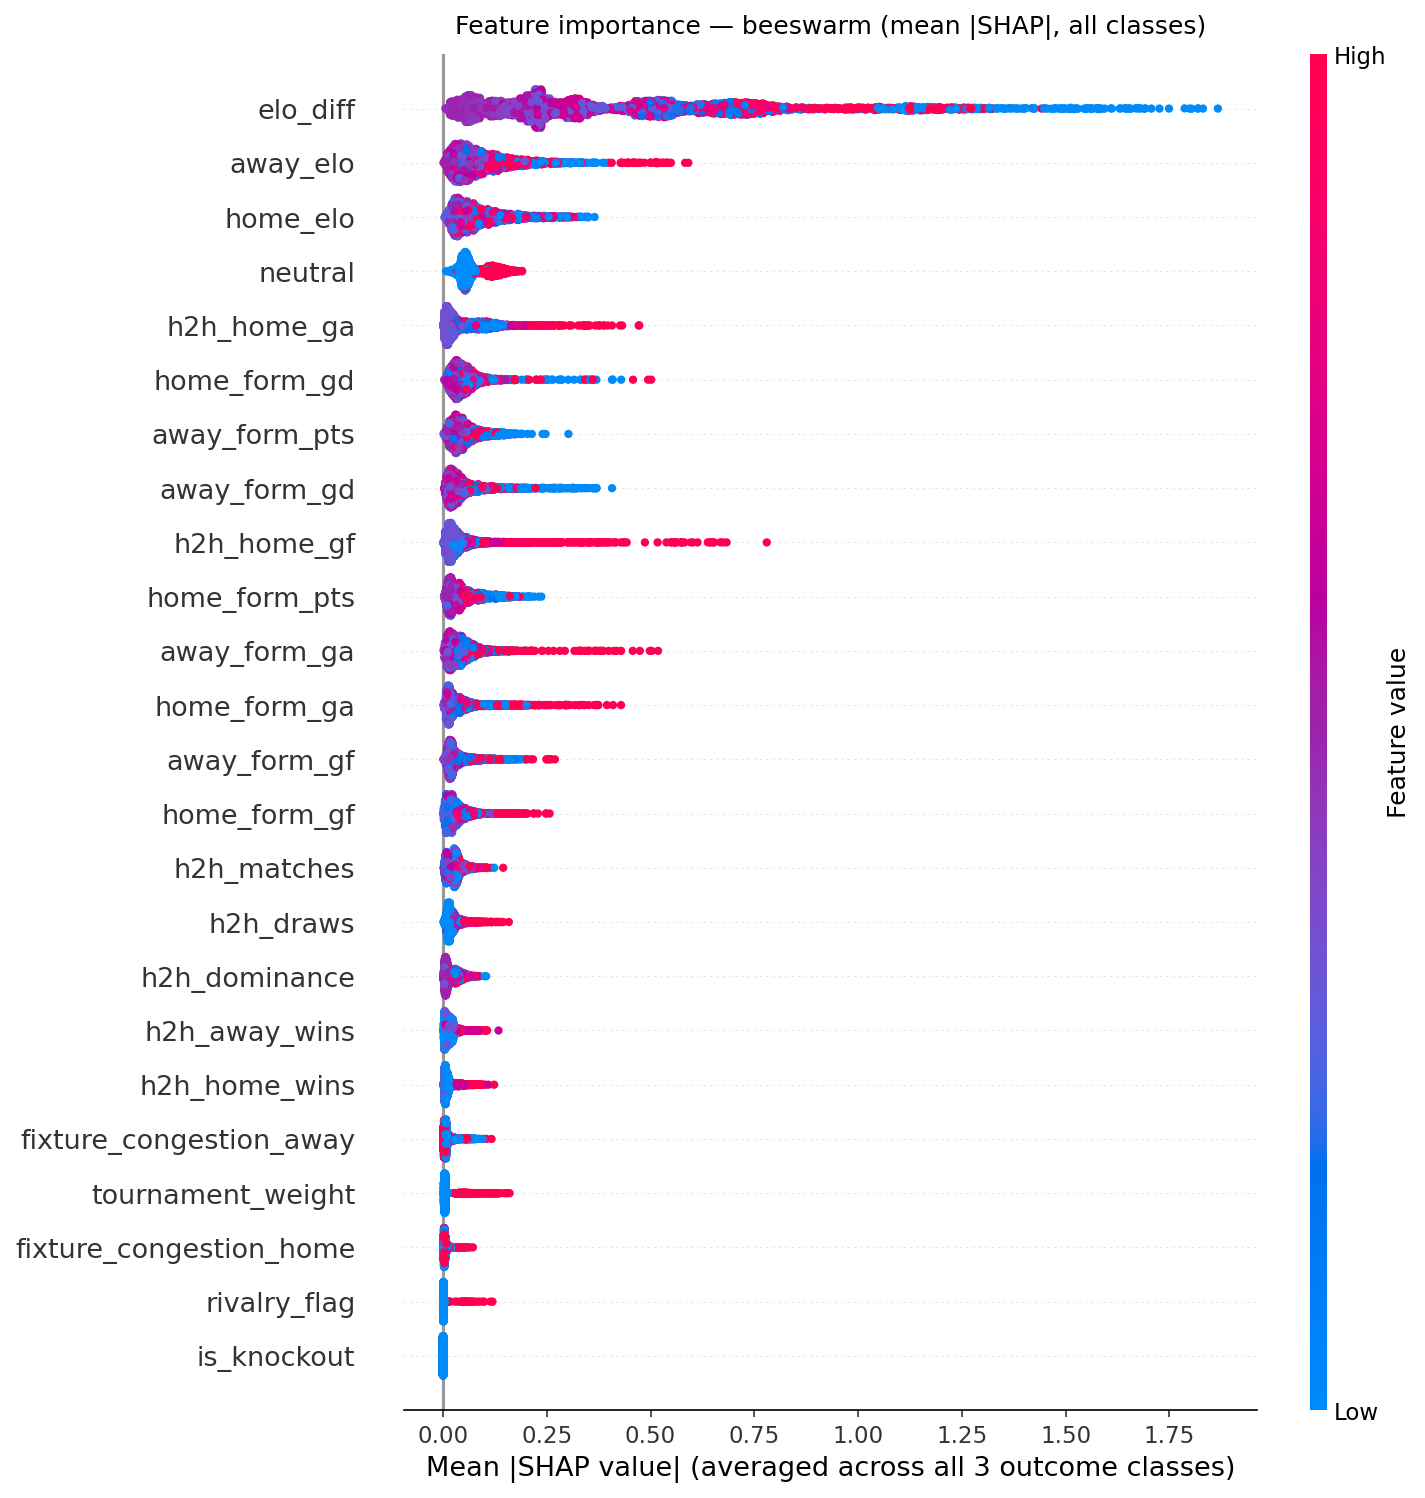
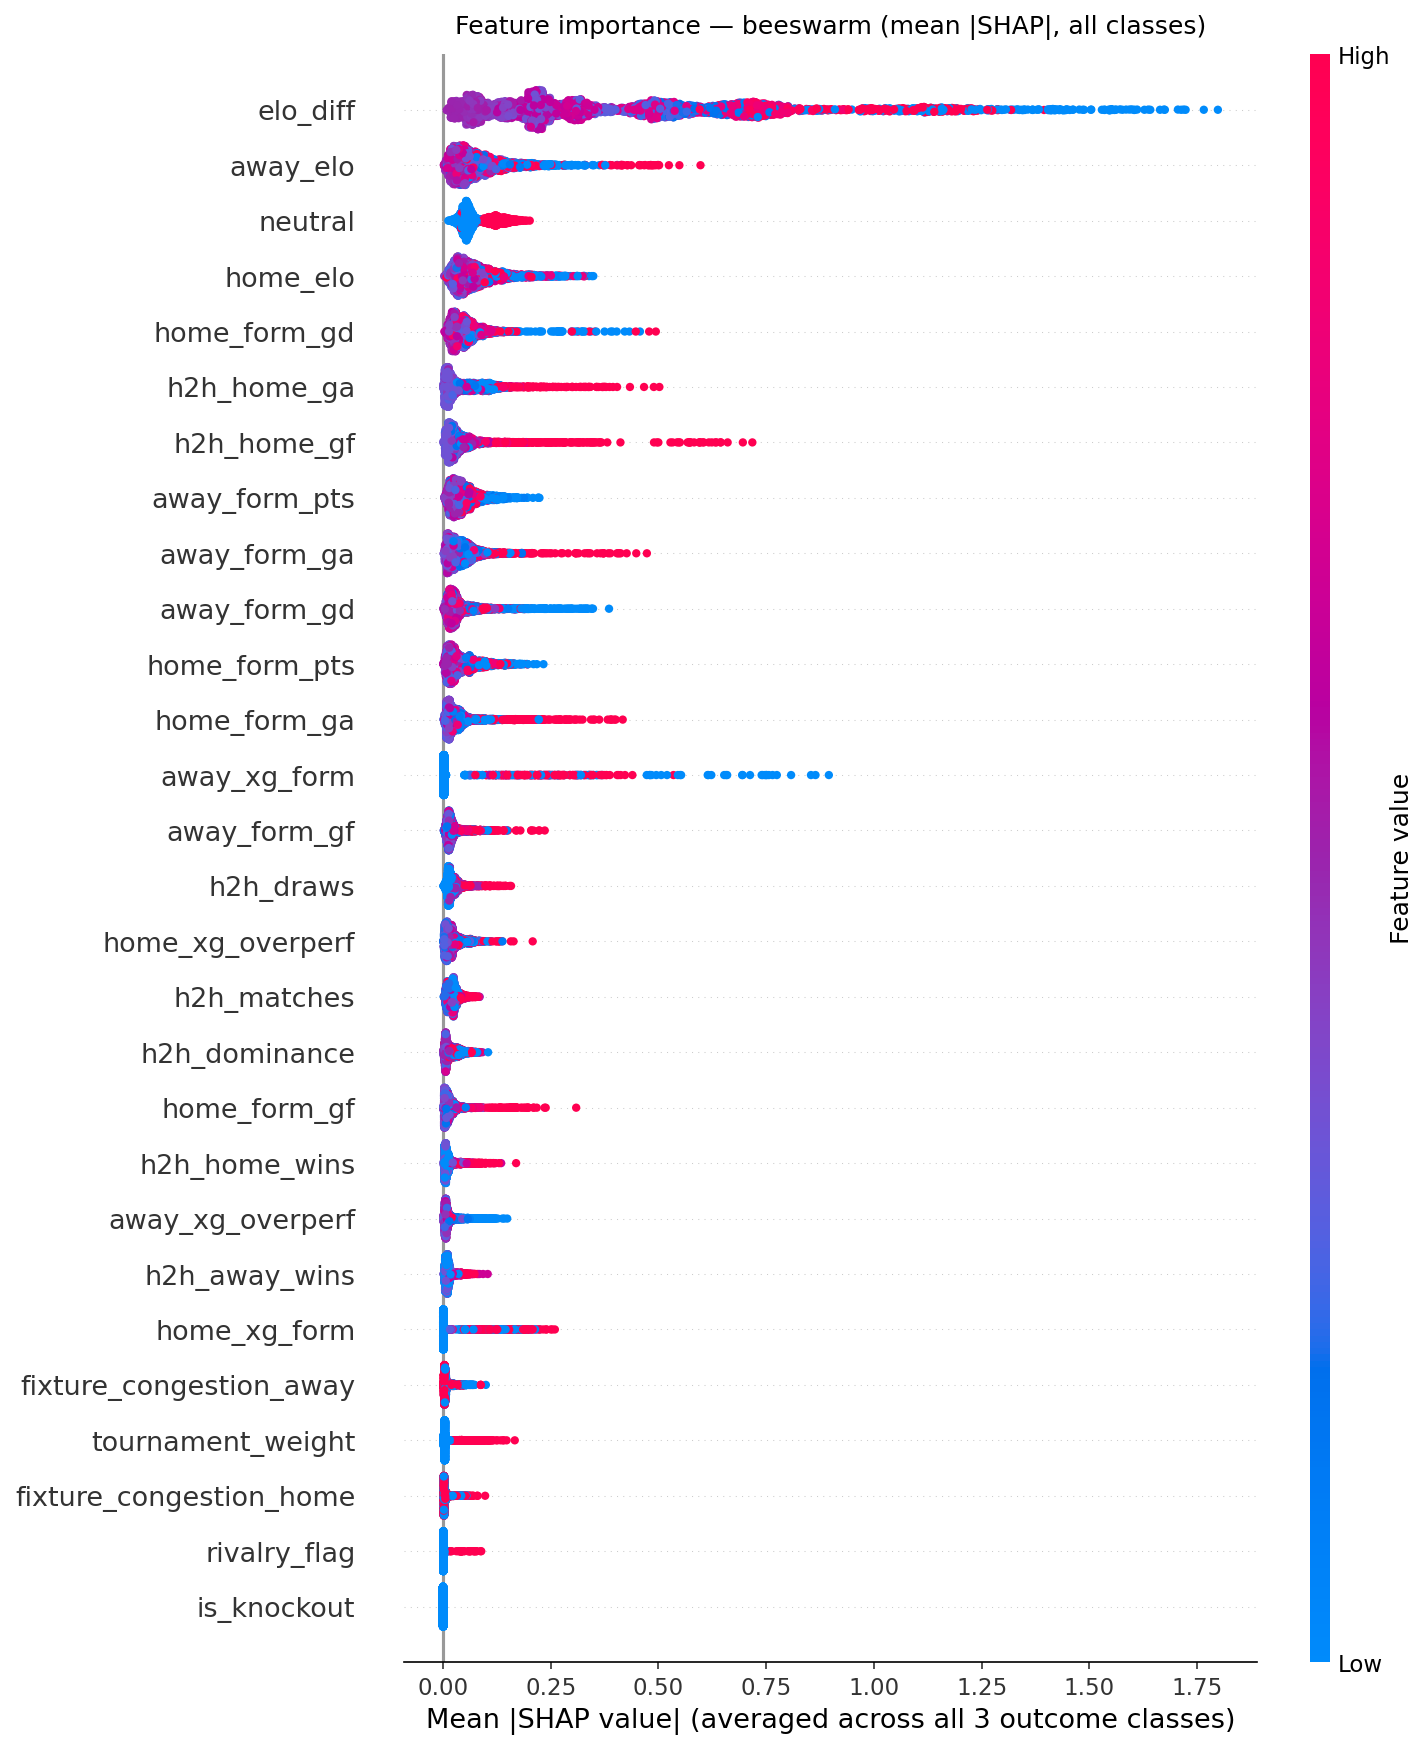
feat: StatsBomb xG integration complete, 28 features, Layer 1 done

diff --git a/src/features/statsbomb_xg.py b/src/features/statsbomb_xg.py
@@ -1,0 +1,244 @@
+"""
+Replace neutral xG fills with real StatsBomb data.
+
+Pipeline
+--------
+1. Fetch shot events from 6 international tournaments (314 matches).
+2. Aggregate shot_statsbomb_xg per team per match → (date, home_team, away_team, home_xg, away_xg).
+3. Normalise StatsBomb team names to match our dataset.
+4. Merge onto matches_with_features.csv (exact + swapped-home/away fallback).
+5. Recompute home/away xG form and xG over-performance as rolling 5-game averages.
+6. Save back to matches_with_features.csv.
+"""
+import sys
+from collections import defaultdict, deque
+from concurrent.futures import ThreadPoolExecutor, as_completed
+
+import pandas as pd
+from statsbombpy import sb
+
+DATA_PATH = "data/processed/matches_with_features.csv"
+XG_WINDOW = 5
+XG_NEUTRAL = 1.0   # fill value when no history yet (matches original behaviour)
+
+# ── Competition / season pairs to pull ────────────────────────────────────
+COMPETITIONS = [
+    (43,    3, "FIFA World Cup 2018"),
+    (43,  106, "FIFA World Cup 2022"),
+    (55,   43, "UEFA Euro 2020"),
+    (55,  282, "UEFA Euro 2024"),
+    (223, 282, "Copa America 2024"),
+    (1267, 107, "AFCON 2023"),
+]
+
+# ── StatsBomb → our dataset name map ──────────────────────────────────────
+NAME_MAP: dict[str, str] = {
+    "Cape Verde Islands": "Cape Verde",
+    "Congo DR":           "Dr Congo",
+    "Côte d'Ivoire":      "Ivory Coast",
+}
+
+
+def _norm(name: str) -> str:
+    return NAME_MAP.get(name, name)
+
+
+# ── Step 1 + 2: fetch and aggregate xG per match ──────────────────────────
+
+def _xg_for_match(match_id: int, home_team: str, away_team: str) -> dict:
+    """Return {match_id, home_xg, away_xg} for one match."""
+    events = sb.events(match_id=match_id)
+    shots = events[events["type"] == "Shot"]
+    home_xg = float(shots.loc[shots["team"] == home_team, "shot_statsbomb_xg"].sum())
+    away_xg = float(shots.loc[shots["team"] == away_team, "shot_statsbomb_xg"].sum())
+    return {"match_id": match_id, "home_xg": home_xg, "away_xg": away_xg}
+
+
+def fetch_statsbomb_xg(max_workers: int = 6) -> pd.DataFrame:
+    """
+    Pull all matches for the 6 competitions, fetch shot events in parallel,
+    and return a DataFrame with columns:
+        date, home_team, away_team, home_xg, away_xg, competition
+    """
+    # --- collect all match metadata first ---
+    all_matches: list[dict] = []
+    for cid, sid, label in COMPETITIONS:
+        matches = sb.matches(competition_id=cid, season_id=sid)
+        for _, row in matches.iterrows():
+            all_matches.append({
+                "match_id":  int(row["match_id"]),
+                "date":      str(row["match_date"]),
+                "home_team": _norm(str(row["home_team"])),
+                "away_team": _norm(str(row["away_team"])),
+                # keep original SB names for the shot lookup (SB uses those internally)
+                "_sb_home":  str(row["home_team"]),
+                "_sb_away":  str(row["away_team"]),
+                "competition": label,
+            })
+
+    total = len(all_matches)
+    print(f"  Fetching events for {total} matches across {len(COMPETITIONS)} competitions …")
+
+    # --- fetch events in parallel ---
+    xg_lookup: dict[int, dict] = {}
+
+    def _fetch(m: dict) -> dict:
+        result = _xg_for_match(m["match_id"], m["_sb_home"], m["_sb_away"])
+        return {**m, **result}
+
+    done = 0
+    with ThreadPoolExecutor(max_workers=max_workers) as pool:
+        futures = {pool.submit(_fetch, m): m for m in all_matches}
+        for future in as_completed(futures):
+            done += 1
+            if done % 20 == 0 or done == total:
+                print(f"    {done}/{total} matches fetched …", flush=True)
+            row = future.result()
+            xg_lookup[row["match_id"]] = row
+
+    rows = list(xg_lookup.values())
+    df = pd.DataFrame(rows)
+    df["date"] = pd.to_datetime(df["date"])
+    df = df[["date", "home_team", "away_team", "home_xg", "away_xg", "competition"]]
+    df = df.sort_values("date").reset_index(drop=True)
+    return df
+
+
+# ── Step 3: merge onto main dataset ───────────────────────────────────────
+
+def merge_xg(main: pd.DataFrame, xg: pd.DataFrame) -> tuple[pd.DataFrame, int, int]:
+    """
+    Join real xG onto main on (date, home_team, away_team).
+    Falls back to swapped home/away (neutral-venue artefact).
+    Returns (patched_df, n_direct_hits, n_swap_hits).
+    """
+    main = main.copy()
+    main["date"] = pd.to_datetime(main["date"])
+
+    # Build fast lookup: (date, home, away) → (home_xg, away_xg)
+    direct: dict[tuple, tuple] = {}
+    swapped: dict[tuple, tuple] = {}
+    for _, r in xg.iterrows():
+        key = (r["date"].date(), r["home_team"], r["away_team"])
+        direct[key]  = (r["home_xg"], r["away_xg"])
+        swap_key = (r["date"].date(), r["away_team"], r["home_team"])
+        swapped[swap_key] = (r["away_xg"], r["home_xg"])   # xG swapped to match perspective
+
+    n_direct = n_swap = 0
+    home_xg_out = main["home_xg"].tolist()
+    away_xg_out = main["away_xg"].tolist()
+
+    for i, row in enumerate(main.itertuples(index=False)):
+        key = (row.date.date(), row.home_team, row.away_team)
+        if key in direct:
+            home_xg_out[i], away_xg_out[i] = direct[key]
+            n_direct += 1
+        elif key in swapped:
+            home_xg_out[i], away_xg_out[i] = swapped[key]
+            n_swap += 1
+
+    main["home_xg"] = home_xg_out
+    main["away_xg"] = away_xg_out
+    return main, n_direct, n_swap
+
+
+# ── Step 4: rolling xG features ───────────────────────────────────────────
+
+def compute_xg_rolling(df: pd.DataFrame, window: int = XG_WINDOW) -> pd.DataFrame:
+    """
+    Recompute home/away xG form and over-performance using an O(n) deque
+    over the chronologically sorted dataset (no leakage — snapshot before
+    each match, update after).
+
+    Columns written:
+        home_xg_form, away_xg_form         rolling avg xG scored (last 5 games)
+        home_xg_overperf, away_xg_overperf rolling avg (goals − xG) (last 5 games)
+    """
+    df = df.sort_values("date").reset_index(drop=True)
+
+    # deque of (xg_scored, goals_scored) per team
+    hist: dict[str, deque] = defaultdict(lambda: deque(maxlen=window))
+
+    h_xgf, a_xgf, h_ovp, a_ovp = [], [], [], []
+
+    for row in df.itertuples(index=False):
+        home, away = row.home_team, row.away_team
+        hh, ah = hist[home], hist[away]
+
+        if hh:
+            h_xgf.append(sum(xg for xg, _ in hh) / len(hh))
+            h_ovp.append(sum(g - xg for xg, g in hh) / len(hh))
+        else:
+            h_xgf.append(XG_NEUTRAL)
+            h_ovp.append(0.0)
+
+        if ah:
+            a_xgf.append(sum(xg for xg, _ in ah) / len(ah))
+            a_ovp.append(sum(g - xg for xg, g in ah) / len(ah))
+        else:
+            a_xgf.append(XG_NEUTRAL)
+            a_ovp.append(0.0)
+
+        # update AFTER recording
+        hist[home].append((row.home_xg, float(row.home_score)))
+        hist[away].append((row.away_xg, float(row.away_score)))
+
+    df["home_xg_form"]     = h_xgf
+    df["away_xg_form"]     = a_xgf
+    df["home_xg_overperf"] = h_ovp
+    df["away_xg_overperf"] = a_ovp
+    return df
+
+
+# ── Step 5: coverage report ───────────────────────────────────────────────
+
+def print_coverage(xg: pd.DataFrame, n_direct: int, n_swap: int, total: int):
+    print(f"\n{'='*54}")
+    print("  xG PATCH COVERAGE")
+    print(f"{'='*54}")
+    print(f"  Real xG matches (direct match) : {n_direct:>5}")
+    print(f"  Real xG matches (swapped H/A)  : {n_swap:>5}")
+    print(f"  Remaining neutral fills (1.0)  : {total - n_direct - n_swap:>5}")
+    print(f"  Total rows                     : {total:>5}")
+
+    print(f"\n  By competition:")
+    for comp, grp in xg.groupby("competition"):
+        print(f"    {comp:<30} {len(grp):>3} matches")
+
+    print(f"\n  Sample — 5 rows with real xG:")
+    sample_cols = ["date", "home_team", "away_team", "home_xg", "away_xg", "competition"]
+    print(
+        xg[sample_cols]
+        .sample(5, random_state=42)
+        .sort_values("date")
+        .to_string(index=False)
+    )
+    print(f"{'='*54}")
+
+
+# ── Main ──────────────────────────────────────────────────────────────────
+
+def main():
+    print(f"Loading {DATA_PATH} …")
+    main_df = pd.read_csv(DATA_PATH, parse_dates=["date"])
+    print(f"  {len(main_df):,} rows loaded")
+
+    print("\nStep 1-2: Fetching StatsBomb xG …")
+    xg_df = fetch_statsbomb_xg()
+    print(f"  Built xG table: {len(xg_df)} matches")
+
+    print("\nStep 3: Merging onto main dataset …")
+    main_df, n_direct, n_swap = merge_xg(main_df, xg_df)
+
+    print("\nStep 4: Recomputing rolling xG features …")
+    main_df = compute_xg_rolling(main_df)
+
+    print_coverage(xg_df, n_direct, n_swap, len(main_df))
+
+    print(f"\nStep 5: Saving → {DATA_PATH} …")
+    main_df.to_csv(DATA_PATH, index=False)
+    print(f"  Saved {len(main_df):,} rows × {len(main_df.columns)} columns")
+
+
+if __name__ == "__main__":
+    main()

diff --git a/src/models/train.py b/src/models/train.py
@@ -45,14 +45,19 @@ FEATURE_COLS = [
     "h2h_home_gf",
     "h2h_home_ga",
     "h2h_dominance",
+    # xG features (real data from StatsBomb for WC/Euro/AFCON/Copa, neutral fill elsewhere)
+    "home_xg_form",
+    "away_xg_form",
+    "home_xg_overperf",
+    "away_xg_overperf",
 ]
 
-# Reference point from previous best run (no H2H, threshold 0.25)
+# Reference point from previous best run (H2H included, no xG, threshold 0.25)
 PREV_BEST = {
-    "name": "Prev best: threshold 0.25 (no H2H)",
-    "accuracy": 0.5180,
-    "log_loss": 0.9104,
-    "draw_f1": 0.3686,
+    "name": "Prev best: threshold 0.25 (no xG)",
+    "accuracy": 0.5141,
+    "log_loss": 0.9050,
+    "draw_f1": 0.3728,
 }
 
 DRAW_FEATURE_COLS = FEATURE_COLS + ["elo_closeness", "form_closeness"]
@@ -253,7 +258,7 @@ def train(data_path: str = DATA_PATH):
     # COMPARISON TABLE
     # ══════════════════════════════════════════════════════════════════════
     print("\n\n" + "=" * 68)
-    print("  SUMMARY  (H2H features vs previous best)")
+    print("  SUMMARY  (with xG features vs previous best)")
     print("=" * 68)
     print(f"  {'Approach':<40} {'Acc':>7} {'LogLoss':>8} {'DrawF1':>8}")
     print(f"  {'-'*40} {'-'*7} {'-'*8} {'-'*8}")
